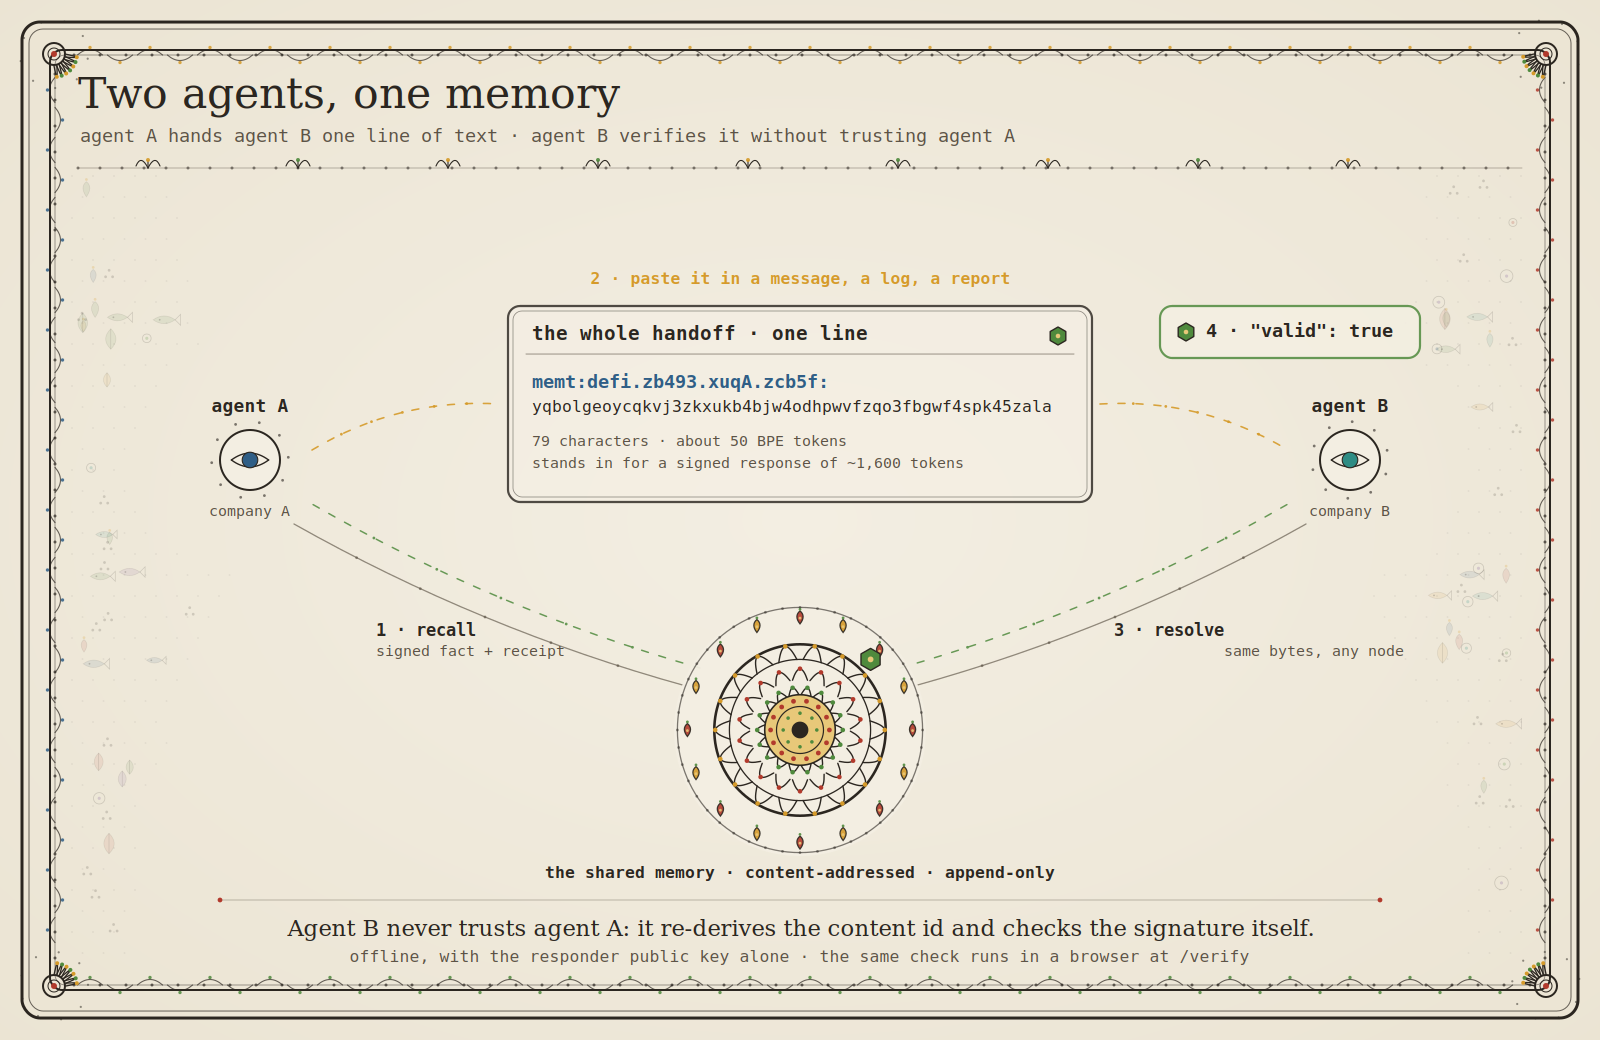
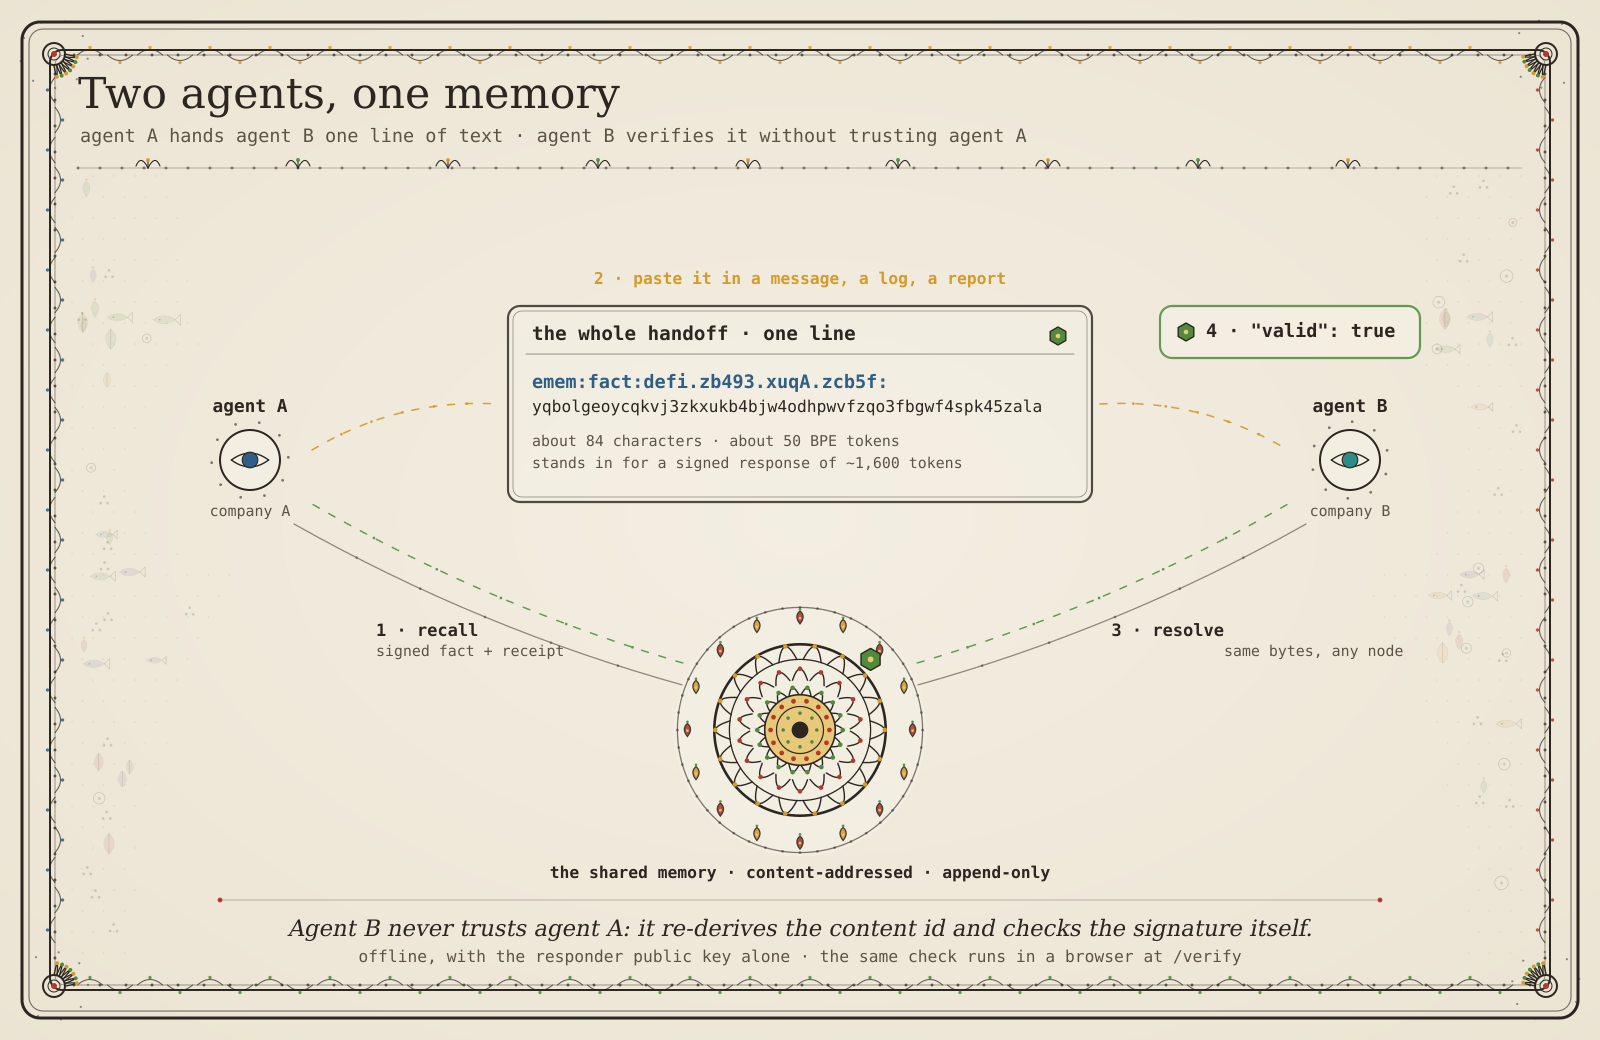
PNG copies of 03, 35, 36 and 38 now match their SVGs
Commit d9238c77 changed the SVGs of diagrams 03, 35, 36 and 38 (token
length "about 84 characters", footer lifted off the bottom frame) but
left the PNG copies in docs/diagrams/png/ on the old text. The four
PNGs are rendered again from the SVGs at 1600x1040 with librsvg.

The other five PNG copies differ from a fresh render only in font
anti-aliasing, so they stay. The gen_shared_memory.py docstring said
the README embeds the PNGs; no page embeds them now.

diff --git a/scripts/gen_shared_memory.py b/scripts/gen_shared_memory.py
@@ -3,7 +3,7 @@
 the two-agent memt handoff, and the compaction-survival panel.
 
 Vector SVG into docs/diagrams/, plus the 1600x1040 PNG twins under
-docs/diagrams/png/ that the README embeds. Token and character counts in the
+docs/diagrams/png/ (no page embeds them on 7 November 2026). Token and character counts in the
 handoff panel are measured, not asserted: 79 chars via len(), 46-49 BPE
 tokens via tiktoken cl100k_base/o200k_base against the live token
 memt:defi.zb493.xuqA.zcb5f:yqbolgeoycqkvj3zkxukb4bjw4odhpwvfzqo3fbgwf4spk45zala
